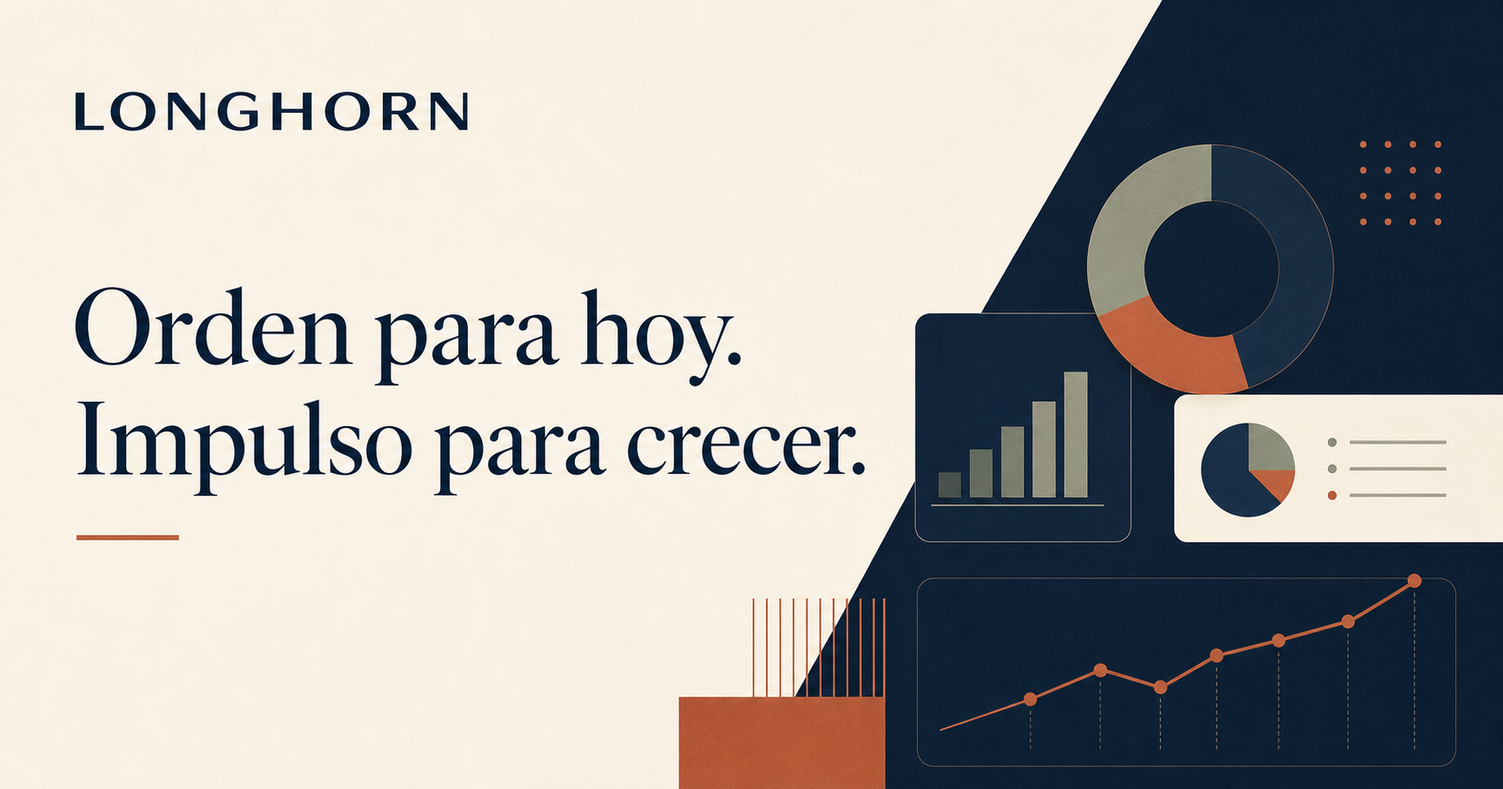
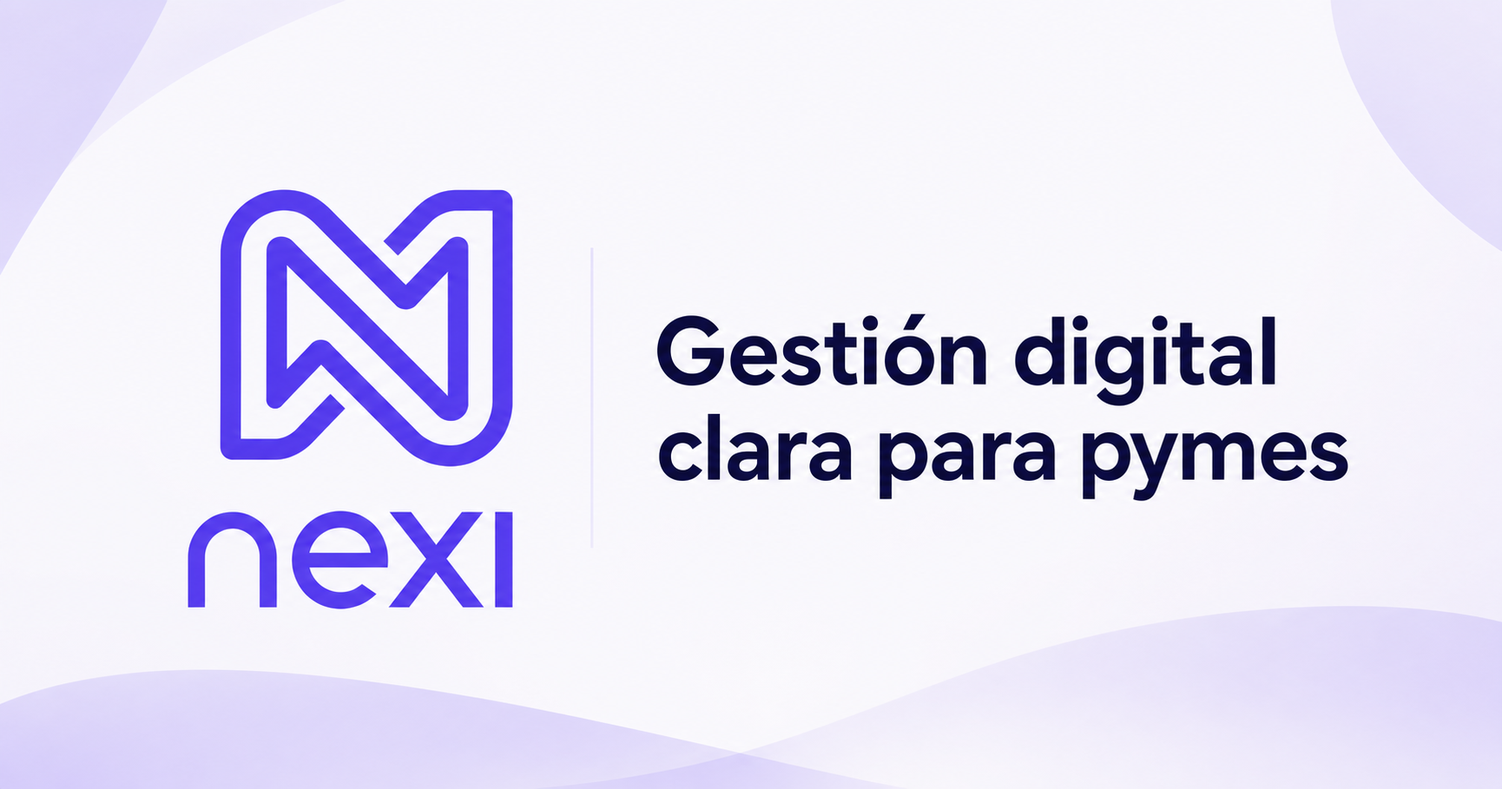
Actualizar identidad visual a nexi

diff --git a/site/app/globals.css b/site/app/globals.css
@@ -1,6 +1,6 @@
 @import "tailwindcss";
 
-:root{--ink:#171329;--muted:#6d687d;--purple:#7553c8;--purple-dark:#5739a4;--lavender:#e8dff8;--mist:#f8f6fc;--line:#e9e4f0;--white:#fff;--green:#32946f}*{box-sizing:border-box}html{scroll-behavior:smooth}body{margin:0;background:var(--mist);color:var(--ink);font-family:Inter,ui-sans-serif,system-ui,-apple-system,"Segoe UI",sans-serif}button,input,select{font:inherit}button,a{-webkit-tap-highlight-color:transparent}button{color:inherit}a{text-decoration:none;color:inherit}.brand{display:inline-flex;align-items:center;gap:10px;font-size:18px;letter-spacing:-.03em}.brand i{width:34px;height:34px;display:grid;place-items:center;background:var(--lavender);color:var(--purple-dark);border-radius:50%;font-style:normal;font-size:20px}.brand-inverse{color:#fff}.brand-inverse i{background:#ffffff18;color:#d8c8ff}.brand-button{border:0;background:transparent;padding:0;cursor:pointer}.nav-shell{height:76px;display:grid;grid-template-columns:1fr auto 1fr;align-items:center;padding:0 max(4vw,24px);background:#ffffffed;border-bottom:1px solid #f0edf4;position:sticky;top:0;z-index:20;backdrop-filter:blur(16px)}.nav-shell nav{display:flex;gap:34px;font-size:13px;font-weight:650;color:#615b6c}.nav-shell nav a:hover{color:var(--purple)}.nav-shell>.pill{justify-self:end}.pill{min-height:44px;padding:0 22px;border:0;border-radius:999px;display:inline-flex;align-items:center;justify-content:center;gap:10px;font-size:12px;font-weight:800;letter-spacing:.02em;cursor:pointer;transition:.2s ease}.pill:hover{transform:translateY(-1px)}.pill.primary{background:var(--purple);color:#fff;box-shadow:0 12px 24px #7553c82b}.pill.primary:hover{background:var(--purple-dark)}.pill.subtle{background:var(--lavender);color:var(--purple-dark)}.pill.ghost{background:#fff;border:1px solid var(--line)}.pill.light{background:#fff;color:var(--purple-dark)}.hero{padding:48px max(4vw,24px) 88px;background:#fff}.hero-card{max-width:1180px;margin:auto;border:1px solid #e9def7;border-radius:42px;overflow:hidden;position:relative;background:linear-gradient(145deg,#fcfbff,#f5effe);box-shadow:0 28px 80px #2e1b4c12}.glow{position:absolute;border-radius:50%;filter:blur(50px);pointer-events:none}.glow-one{width:330px;height:330px;background:#d8c6f4;top:-180px;left:-120px}.glow-two{width:400px;height:400px;background:#cab2ef70;right:-180px;bottom:-180px}.hero-copy{max-width:820px;margin:auto;text-align:center;padding:76px 30px 38px;position:relative;z-index:2}.tag{display:inline-flex;align-items:center;gap:8px;padding:7px 12px;border-radius:999px;background:#f1eafa;border:1px solid #dfcff3;color:var(--purple-dark);font:800 10px ui-monospace,monospace;text-transform:uppercase;letter-spacing:.09em}.tag i{width:6px;height:6px;border-radius:50%;background:var(--purple)}.hero h1{font-size:clamp(58px,9vw,112px);letter-spacing:-.075em;line-height:.85;margin:34px 0 28px;background:linear-gradient(90deg,#171329,#4c2f79 55%,#7654c9);background-clip:text;color:transparent}.hero-copy>p{max-width:680px;margin:0 auto;color:var(--muted);font-size:clamp(17px,2vw,21px);line-height:1.65}.action-row{display:flex;justify-content:center;gap:12px;margin-top:30px}.landscape-frame{margin:0 44px 44px;position:relative;z-index:2;border-radius:28px;overflow:hidden;border:6px solid #ffffffb5;box-shadow:0 22px 50px #40236c1c}.landscape-frame img{display:block;width:100%;height:390px;object-fit:cover}.section{padding:110px max(6vw,24px)}.section>*{max-width:1180px;margin-left:auto;margin-right:auto}.kicker{display:block;margin-bottom:20px;color:var(--purple);font:800 10px ui-monospace,monospace;text-transform:uppercase;letter-spacing:.15em}.section h2,.cta h2,.modal-card h2{font-size:clamp(38px,5vw,64px);line-height:1.06;letter-spacing:-.055em;margin:0}.section-lead{max-width:660px!important;text-align:center;color:var(--muted);line-height:1.7}.intro{text-align:center;background:#fff}.problem-grid{display:grid;grid-template-columns:repeat(4,1fr);gap:16px;margin-top:58px}.problem-grid article{text-align:left;background:var(--mist);padding:28px;border-radius:22px;border:1px solid var(--line);min-height:235px}.problem-icon{display:grid;width:42px;height:42px;place-items:center;border-radius:13px;background:#f0e9fa;color:var(--purple);font:700 11px ui-monospace,monospace}.problem-grid h3{font-size:16px;margin:30px 0 10px}.problem-grid p,.solution p,.process p,.faq>div>p{color:var(--muted);font-size:14px;line-height:1.7;margin:0}.solution{display:grid;grid-template-columns:1fr 1fr;gap:9vw;align-items:center}.solution>*{width:100%}.solution h2 em{color:var(--purple);font-style:normal}.solution>div:first-child>p{margin-top:28px;max-width:540px}.ecosystem-card{background:#fff;border:1px solid var(--line);border-radius:26px;padding:28px;box-shadow:0 24px 60px #3022460d}.card-title{display:flex;justify-content:space-between;align-items:center;padding-bottom:20px;border-bottom:1px solid var(--line)}.card-title span{font:700 9px ui-monospace,monospace;color:var(--purple);background:#f0eafa;padding:6px 8px;border-radius:7px}.module-row{display:grid;grid-template-columns:46px 1fr;gap:14px;padding:20px 0;border-bottom:1px solid var(--line)}.module-row:last-child{border:0}.module-row i{width:38px;height:38px;border-radius:12px;background:var(--mist);display:grid;place-items:center;color:var(--purple);font:700 11px ui-monospace,monospace}.module-row span{display:grid;gap:6px}.module-row small{color:var(--muted);line-height:1.5}.process{background:#fff;text-align:center}.process>h2{max-width:760px}.steps{display:grid;grid-template-columns:repeat(3,1fr);gap:1px;margin-top:60px;background:var(--line);border:1px solid var(--line);border-radius:24px;overflow:hidden;text-align:left}.steps article{background:#fff;padding:36px}.steps article>span{color:var(--purple);font:700 11px ui-monospace,monospace}.steps h3{font-size:22px;margin:46px 0 12px}.faq{display:grid;grid-template-columns:.75fr 1.25fr;gap:8vw}.faq>*{width:100%}.faq>div>p{margin-top:24px}.faq-list{border-top:1px solid var(--line)}.faq-list article{border-bottom:1px solid var(--line)}.faq-list button{width:100%;background:transparent;border:0;padding:24px 0;display:flex;justify-content:space-between;text-align:left;cursor:pointer}.faq-list button span{color:var(--purple);font-size:20px}.faq-list article p{margin:0;padding:0 40px 22px 0;color:var(--muted);font-size:14px;line-height:1.7}.cta{background:linear-gradient(130deg,#6b49bb,#8e6ed4);color:#fff;text-align:center;padding:100px 24px}.cta .kicker{color:#e3d8fa}.cta h2{max-width:820px;margin:0 auto 34px}footer{background:#151126;color:#fff;padding:70px max(6vw,24px) 26px;display:grid;grid-template-columns:2fr 1fr;gap:40px}footer p{max-width:390px;color:#aba5bb;font-size:13px;line-height:1.7}footer>div:nth-child(2){display:grid;align-content:start;justify-items:start;gap:12px}footer>div:nth-child(2) button{border:0;background:transparent;color:#bdb7c8;padding:0;cursor:pointer}footer small{grid-column:1/-1;border-top:1px solid #ffffff18;padding-top:24px;color:#777185}.modal-stage{position:fixed;inset:0;z-index:60;display:grid;place-items:center;padding:20px;overflow:auto}.modal-backdrop{position:fixed;inset:0;border:0;background:#161127a8;backdrop-filter:blur(12px)}.modal-card{position:relative;width:min(560px,100%);background:#fffffffa;border:1px solid #ffffff;border-radius:34px;padding:42px;box-shadow:0 30px 100px #130b25aa}.modal-card>.brand{margin-bottom:38px}.modal-card .kicker{margin-bottom:10px}.modal-card h2{font-size:34px}.close{position:absolute;right:24px;top:22px;border:0;background:var(--mist);width:34px;height:34px;border-radius:50%;font-size:20px;cursor:pointer}.modal-copy{color:var(--muted);font-size:13px;line-height:1.65}.form{display:grid;gap:18px;margin-top:26px}.form label{display:grid;gap:8px;font-size:10px;font-weight:800;text-transform:uppercase;letter-spacing:.09em;color:#625c6e}.form input,.form select{width:100%;border:1px solid var(--line);border-radius:13px;background:var(--mist);padding:13px 14px;outline:0;color:var(--ink);text-transform:none;letter-spacing:0;font-size:13px}.form input:focus,.form select:focus{border-color:var(--purple);box-shadow:0 0 0 3px #7553c817}.form .pill{width:100%;margin-top:4px}.text-button{display:block;margin:22px auto 0;border:0;background:transparent;color:var(--purple);font-size:12px;font-weight:700;cursor:pointer}.blur-overlay{position:fixed;inset:0;z-index:40;background:#17132933;backdrop-filter:blur(5px)}.progress{height:5px;background:var(--line);border-radius:4px;margin:24px 0;overflow:hidden}.progress i{display:block;height:100%;background:var(--purple);transition:.3s}.template-grid{display:grid;grid-template-columns:repeat(3,1fr);gap:10px;margin:24px 0}.template-grid button{padding:14px;border:1px solid var(--line);border-radius:16px;background:var(--mist);display:grid;gap:8px;text-align:left;cursor:pointer}.template-grid button.selected{border-color:var(--purple);background:#f3eefb}.template-grid button i{height:64px;border-radius:9px;background:linear-gradient(145deg,#e4d9f6,#c8afea);display:grid;place-items:center;font-style:normal;color:#6c4ab6}.template-grid small{color:var(--muted);font-size:9px}.review-card{background:linear-gradient(145deg,#f7f3fc,#eee5f8);border:1px solid #ded0ef;border-radius:22px;padding:30px;margin:24px 0}.review-card>span{font:700 9px ui-monospace,monospace;text-transform:uppercase;color:var(--purple)}.review-card h3{font-size:28px;margin:14px 0 8px}.review-card p{color:var(--muted);font-size:12px}.review-card div{margin-top:28px;color:var(--green);font-size:12px;font-weight:700}.review-card div i{display:inline-block;width:7px;height:7px;background:var(--green);border-radius:50%;margin-right:7px}.form-actions{display:flex;justify-content:flex-end;gap:10px;margin-top:28px}.dashboard-shell{min-height:100vh;display:grid;grid-template-columns:244px 1fr;background:#f6f4f9}.dashboard-shell>aside{background:#171329;color:#fff;padding:28px 20px;display:flex;flex-direction:column}.dashboard-shell aside nav{display:grid;gap:7px;margin-top:52px}.dashboard-shell aside nav button{border:0;background:transparent;color:#aaa4b8;border-radius:12px;padding:12px 14px;text-align:left;display:flex;gap:12px;cursor:pointer}.dashboard-shell aside nav button.active{background:#ffffff12;color:#fff}.demo-note{margin-top:auto;background:#ffffff0a;border:1px solid #ffffff12;border-radius:15px;padding:15px}.demo-note b{font-size:11px;color:#d9ccf3}.demo-note p{font-size:10px;color:#8e879c;line-height:1.5}.exit{margin-top:18px;border:0;background:transparent;color:#8e879c;text-align:left;font-size:11px;cursor:pointer}.dashboard-shell>main{padding:42px max(4vw,30px)}.dashboard-shell main>header{display:flex;align-items:center;justify-content:space-between}.dashboard-shell main header .kicker{margin-bottom:7px}.dashboard-shell main header h1{font-size:32px;margin:0;letter-spacing:-.04em}.notice{display:flex;gap:16px;align-items:center;background:#eee6fa;border:1px solid #ded0f0;border-radius:17px;padding:19px;margin-top:34px}.notice>span{width:36px;height:36px;display:grid;place-items:center;border-radius:11px;background:#fff;color:var(--purple)}.notice b{font-size:13px}.notice p{margin:5px 0 0;color:var(--muted);font-size:11px}.metrics{display:grid;grid-template-columns:repeat(3,1fr);gap:16px;margin-top:18px}.metrics article{background:#fff;border:1px solid var(--line);border-radius:18px;padding:22px;display:grid;gap:10px}.metrics small{color:var(--muted)}.metrics strong{font-size:30px}.metrics span{color:var(--green);font-size:11px}.dashboard-grid{display:grid;grid-template-columns:1.6fr 1fr;gap:18px;margin-top:18px}.chart-card,.tasks,.empty-panel{background:#fff;border:1px solid var(--line);border-radius:18px;padding:24px}.chart-card>div:first-child{display:flex;justify-content:space-between}.chart-card>div:first-child span{display:grid;gap:5px}.chart-card small,.chart-card em{font-size:10px;color:var(--muted);font-style:normal}.bars{height:230px;display:flex;gap:8%;align-items:flex-end;border-bottom:1px solid var(--line);margin-top:28px}.bars i{flex:1;background:linear-gradient(#8c6bd3,#d9ccf1);border-radius:6px 6px 0 0}.tasks h3{margin:0 0 18px;font-size:15px}.tasks label{display:flex;gap:10px;border-top:1px solid var(--line);padding:16px 0;font-size:12px}.tasks label span{display:grid;gap:5px}.tasks label small{color:var(--muted)}.empty-panel{text-align:center;margin-top:34px;min-height:430px;display:grid;place-content:center}.empty-panel>span{font-size:42px;color:var(--purple)}.empty-panel h2{font-size:28px;margin:15px}.empty-panel p{max-width:500px;color:var(--muted);line-height:1.7;font-size:13px}.design-page{min-height:100vh;background:#fff}.design-page>header{height:82px;padding:0 max(5vw,24px);display:flex;justify-content:space-between;align-items:center;border-bottom:1px solid var(--line)}.design-page>main{max-width:1120px;margin:auto;padding:90px 24px}.design-page h1{font-size:clamp(50px,7vw,88px);line-height:.95;letter-spacing:-.065em;margin:0}.design-lead{font-size:17px;color:var(--muted);line-height:1.7;max-width:670px;margin:34px 0 90px}.design-page section{border-top:1px solid var(--line);padding:40px 0 70px}.design-page section h2{font-size:16px}.swatches{display:grid;grid-template-columns:repeat(5,1fr);gap:12px}.swatches article{display:grid;gap:8px}.swatches i{height:130px;border-radius:16px;border:1px solid var(--line)}.swatches small{color:var(--muted);font:10px ui-monospace,monospace}.component-sample{display:flex;flex-wrap:wrap;gap:14px;align-items:center}.mini-card{width:180px;border:1px solid var(--line);border-radius:16px;padding:18px;display:grid;gap:6px}.mini-card small,.mini-card span{color:var(--muted);font-size:10px}.mini-card strong{font-size:28px}
+:root{--ink:#171329;--muted:#6d687d;--purple:#7553c8;--purple-dark:#5739a4;--lavender:#e8dff8;--mist:#f8f6fc;--line:#e9e4f0;--white:#fff;--green:#32946f}*{box-sizing:border-box}html{scroll-behavior:smooth}body{margin:0;background:var(--mist);color:var(--ink);font-family:Inter,ui-sans-serif,system-ui,-apple-system,"Segoe UI",sans-serif}button,input,select{font:inherit}button,a{-webkit-tap-highlight-color:transparent}button{color:inherit}a{text-decoration:none;color:inherit}.sr-only{position:absolute;width:1px;height:1px;padding:0;margin:-1px;overflow:hidden;clip:rect(0,0,0,0);white-space:nowrap;border:0}.brand{display:inline-flex;align-items:center;gap:10px}.brand b{font-family:"Century Gothic","Avenir Next",Avenir,Futura,sans-serif;font-size:24px;font-weight:400;letter-spacing:-.08em}.brand-mark{width:34px;height:34px;position:relative;display:block;overflow:hidden;background:#fff;border-radius:10px;box-shadow:0 0 0 1px #7553c817}.brand-mark img{position:absolute;width:62px;height:auto;left:-13px;top:-13px;max-width:none}.brand-inverse{color:#fff}.brand-inverse .brand-mark{background:#fff;box-shadow:none}.brand-button{border:0;background:transparent;padding:0;cursor:pointer}.nav-shell{height:76px;display:grid;grid-template-columns:1fr auto 1fr;align-items:center;padding:0 max(4vw,24px);background:#ffffffed;border-bottom:1px solid #f0edf4;position:sticky;top:0;z-index:20;backdrop-filter:blur(16px)}.nav-shell nav{display:flex;gap:34px;font-size:13px;font-weight:650;color:#615b6c}.nav-shell nav a:hover{color:var(--purple)}.nav-shell>.pill{justify-self:end}.pill{min-height:44px;padding:0 22px;border:0;border-radius:999px;display:inline-flex;align-items:center;justify-content:center;gap:10px;font-size:12px;font-weight:800;letter-spacing:.02em;cursor:pointer;transition:.2s ease}.pill:hover{transform:translateY(-1px)}.pill.primary{background:var(--purple);color:#fff;box-shadow:0 12px 24px #7553c82b}.pill.primary:hover{background:var(--purple-dark)}.pill.subtle{background:var(--lavender);color:var(--purple-dark)}.pill.ghost{background:#fff;border:1px solid var(--line)}.pill.light{background:#fff;color:var(--purple-dark)}.hero{padding:48px max(4vw,24px) 88px;background:#fff}.hero-card{max-width:1180px;margin:auto;border:1px solid #e9def7;border-radius:42px;overflow:hidden;position:relative;background:linear-gradient(145deg,#fcfbff,#f5effe);box-shadow:0 28px 80px #2e1b4c12}.glow{position:absolute;border-radius:50%;filter:blur(50px);pointer-events:none}.glow-one{width:330px;height:330px;background:#d8c6f4;top:-180px;left:-120px}.glow-two{width:400px;height:400px;background:#cab2ef70;right:-180px;bottom:-180px}.hero-copy{max-width:820px;margin:auto;text-align:center;padding:76px 30px 38px;position:relative;z-index:2}.tag{display:inline-flex;align-items:center;gap:8px;padding:7px 12px;border-radius:999px;background:#f1eafa;border:1px solid #dfcff3;color:var(--purple-dark);font:800 10px ui-monospace,monospace;text-transform:uppercase;letter-spacing:.09em}.tag i{width:6px;height:6px;border-radius:50%;background:var(--purple)}.hero h1.hero-wordmark{position:relative;width:clamp(260px,46vw,520px);aspect-ratio:3.4/1;overflow:hidden;margin:32px auto 28px;background:none;color:inherit}.hero-wordmark img{position:absolute;width:136.3%;height:auto;max-width:none;left:-17.9%;top:-405%;mix-blend-mode:multiply}.hero-copy>p{max-width:680px;margin:0 auto;color:var(--muted);font-size:clamp(17px,2vw,21px);line-height:1.65}.action-row{display:flex;justify-content:center;gap:12px;margin-top:30px}.landscape-frame{margin:0 44px 44px;position:relative;z-index:2;border-radius:28px;overflow:hidden;border:6px solid #ffffffb5;box-shadow:0 22px 50px #40236c1c}.landscape-frame img{display:block;width:100%;height:390px;object-fit:cover}.section{padding:110px max(6vw,24px)}.section>*{max-width:1180px;margin-left:auto;margin-right:auto}.kicker{display:block;margin-bottom:20px;color:var(--purple);font:800 10px ui-monospace,monospace;text-transform:uppercase;letter-spacing:.15em}.section h2,.cta h2,.modal-card h2{font-size:clamp(38px,5vw,64px);line-height:1.06;letter-spacing:-.055em;margin:0}.section-lead{max-width:660px!important;text-align:center;color:var(--muted);line-height:1.7}.intro{text-align:center;background:#fff}.problem-grid{display:grid;grid-template-columns:repeat(4,1fr);gap:16px;margin-top:58px}.problem-grid article{text-align:left;background:var(--mist);padding:28px;border-radius:22px;border:1px solid var(--line);min-height:235px}.problem-icon{display:grid;width:42px;height:42px;place-items:center;border-radius:13px;background:#f0e9fa;color:var(--purple);font:700 11px ui-monospace,monospace}.problem-grid h3{font-size:16px;margin:30px 0 10px}.problem-grid p,.solution p,.process p,.faq>div>p{color:var(--muted);font-size:14px;line-height:1.7;margin:0}.solution{display:grid;grid-template-columns:1fr 1fr;gap:9vw;align-items:center}.solution>*{width:100%}.solution h2 em{color:var(--purple);font-style:normal}.solution>div:first-child>p{margin-top:28px;max-width:540px}.ecosystem-card{background:#fff;border:1px solid var(--line);border-radius:26px;padding:28px;box-shadow:0 24px 60px #3022460d}.card-title{display:flex;justify-content:space-between;align-items:center;padding-bottom:20px;border-bottom:1px solid var(--line)}.card-title span{font:700 9px ui-monospace,monospace;color:var(--purple);background:#f0eafa;padding:6px 8px;border-radius:7px}.module-row{display:grid;grid-template-columns:46px 1fr;gap:14px;padding:20px 0;border-bottom:1px solid var(--line)}.module-row:last-child{border:0}.module-row i{width:38px;height:38px;border-radius:12px;background:var(--mist);display:grid;place-items:center;color:var(--purple);font:700 11px ui-monospace,monospace}.module-row span{display:grid;gap:6px}.module-row small{color:var(--muted);line-height:1.5}.process{background:#fff;text-align:center}.process>h2{max-width:760px}.steps{display:grid;grid-template-columns:repeat(3,1fr);gap:1px;margin-top:60px;background:var(--line);border:1px solid var(--line);border-radius:24px;overflow:hidden;text-align:left}.steps article{background:#fff;padding:36px}.steps article>span{color:var(--purple);font:700 11px ui-monospace,monospace}.steps h3{font-size:22px;margin:46px 0 12px}.faq{display:grid;grid-template-columns:.75fr 1.25fr;gap:8vw}.faq>*{width:100%}.faq>div>p{margin-top:24px}.faq-list{border-top:1px solid var(--line)}.faq-list article{border-bottom:1px solid var(--line)}.faq-list button{width:100%;background:transparent;border:0;padding:24px 0;display:flex;justify-content:space-between;text-align:left;cursor:pointer}.faq-list button span{color:var(--purple);font-size:20px}.faq-list article p{margin:0;padding:0 40px 22px 0;color:var(--muted);font-size:14px;line-height:1.7}.cta{background:linear-gradient(130deg,#6b49bb,#8e6ed4);color:#fff;text-align:center;padding:100px 24px}.cta .kicker{color:#e3d8fa}.cta h2{max-width:820px;margin:0 auto 34px}footer{background:#151126;color:#fff;padding:70px max(6vw,24px) 26px;display:grid;grid-template-columns:2fr 1fr;gap:40px}footer p{max-width:390px;color:#aba5bb;font-size:13px;line-height:1.7}footer>div:nth-child(2){display:grid;align-content:start;justify-items:start;gap:12px}footer>div:nth-child(2) button{border:0;background:transparent;color:#bdb7c8;padding:0;cursor:pointer}footer small{grid-column:1/-1;border-top:1px solid #ffffff18;padding-top:24px;color:#777185}.modal-stage{position:fixed;inset:0;z-index:60;display:grid;place-items:center;padding:20px;overflow:auto}.modal-backdrop{position:fixed;inset:0;border:0;background:#161127a8;backdrop-filter:blur(12px)}.modal-card{position:relative;width:min(560px,100%);background:#fffffffa;border:1px solid #ffffff;border-radius:34px;padding:42px;box-shadow:0 30px 100px #130b25aa}.modal-card>.brand{margin-bottom:38px}.modal-card .kicker{margin-bottom:10px}.modal-card h2{font-size:34px}.close{position:absolute;right:24px;top:22px;border:0;background:var(--mist);width:34px;height:34px;border-radius:50%;font-size:20px;cursor:pointer}.modal-copy{color:var(--muted);font-size:13px;line-height:1.65}.form{display:grid;gap:18px;margin-top:26px}.form label{display:grid;gap:8px;font-size:10px;font-weight:800;text-transform:uppercase;letter-spacing:.09em;color:#625c6e}.form input,.form select{width:100%;border:1px solid var(--line);border-radius:13px;background:var(--mist);padding:13px 14px;outline:0;color:var(--ink);text-transform:none;letter-spacing:0;font-size:13px}.form input:focus,.form select:focus{border-color:var(--purple);box-shadow:0 0 0 3px #7553c817}.form .pill{width:100%;margin-top:4px}.text-button{display:block;margin:22px auto 0;border:0;background:transparent;color:var(--purple);font-size:12px;font-weight:700;cursor:pointer}.blur-overlay{position:fixed;inset:0;z-index:40;background:#17132933;backdrop-filter:blur(5px)}.progress{height:5px;background:var(--line);border-radius:4px;margin:24px 0;overflow:hidden}.progress i{display:block;height:100%;background:var(--purple);transition:.3s}.template-grid{display:grid;grid-template-columns:repeat(3,1fr);gap:10px;margin:24px 0}.template-grid button{padding:14px;border:1px solid var(--line);border-radius:16px;background:var(--mist);display:grid;gap:8px;text-align:left;cursor:pointer}.template-grid button.selected{border-color:var(--purple);background:#f3eefb}.template-grid button i{height:64px;border-radius:9px;background:linear-gradient(145deg,#e4d9f6,#c8afea);display:grid;place-items:center;font-style:normal;color:#6c4ab6}.template-grid small{color:var(--muted);font-size:9px}.review-card{background:linear-gradient(145deg,#f7f3fc,#eee5f8);border:1px solid #ded0ef;border-radius:22px;padding:30px;margin:24px 0}.review-card>span{font:700 9px ui-monospace,monospace;text-transform:uppercase;color:var(--purple)}.review-card h3{font-size:28px;margin:14px 0 8px}.review-card p{color:var(--muted);font-size:12px}.review-card div{margin-top:28px;color:var(--green);font-size:12px;font-weight:700}.review-card div i{display:inline-block;width:7px;height:7px;background:var(--green);border-radius:50%;margin-right:7px}.form-actions{display:flex;justify-content:flex-end;gap:10px;margin-top:28px}.dashboard-shell{min-height:100vh;display:grid;grid-template-columns:244px 1fr;background:#f6f4f9}.dashboard-shell>aside{background:#171329;color:#fff;padding:28px 20px;display:flex;flex-direction:column}.dashboard-shell aside nav{display:grid;gap:7px;margin-top:52px}.dashboard-shell aside nav button{border:0;background:transparent;color:#aaa4b8;border-radius:12px;padding:12px 14px;text-align:left;display:flex;gap:12px;cursor:pointer}.dashboard-shell aside nav button.active{background:#ffffff12;color:#fff}.demo-note{margin-top:auto;background:#ffffff0a;border:1px solid #ffffff12;border-radius:15px;padding:15px}.demo-note b{font-size:11px;color:#d9ccf3}.demo-note p{font-size:10px;color:#8e879c;line-height:1.5}.exit{margin-top:18px;border:0;background:transparent;color:#8e879c;text-align:left;font-size:11px;cursor:pointer}.dashboard-shell>main{padding:42px max(4vw,30px)}.dashboard-shell main>header{display:flex;align-items:center;justify-content:space-between}.dashboard-shell main header .kicker{margin-bottom:7px}.dashboard-shell main header h1{font-size:32px;margin:0;letter-spacing:-.04em}.notice{display:flex;gap:16px;align-items:center;background:#eee6fa;border:1px solid #ded0f0;border-radius:17px;padding:19px;margin-top:34px}.notice>span{width:36px;height:36px;display:grid;place-items:center;border-radius:11px;background:#fff;color:var(--purple)}.notice b{font-size:13px}.notice p{margin:5px 0 0;color:var(--muted);font-size:11px}.metrics{display:grid;grid-template-columns:repeat(3,1fr);gap:16px;margin-top:18px}.metrics article{background:#fff;border:1px solid var(--line);border-radius:18px;padding:22px;display:grid;gap:10px}.metrics small{color:var(--muted)}.metrics strong{font-size:30px}.metrics span{color:var(--green);font-size:11px}.dashboard-grid{display:grid;grid-template-columns:1.6fr 1fr;gap:18px;margin-top:18px}.chart-card,.tasks,.empty-panel{background:#fff;border:1px solid var(--line);border-radius:18px;padding:24px}.chart-card>div:first-child{display:flex;justify-content:space-between}.chart-card>div:first-child span{display:grid;gap:5px}.chart-card small,.chart-card em{font-size:10px;color:var(--muted);font-style:normal}.bars{height:230px;display:flex;gap:8%;align-items:flex-end;border-bottom:1px solid var(--line);margin-top:28px}.bars i{flex:1;background:linear-gradient(#8c6bd3,#d9ccf1);border-radius:6px 6px 0 0}.tasks h3{margin:0 0 18px;font-size:15px}.tasks label{display:flex;gap:10px;border-top:1px solid var(--line);padding:16px 0;font-size:12px}.tasks label span{display:grid;gap:5px}.tasks label small{color:var(--muted)}.empty-panel{text-align:center;margin-top:34px;min-height:430px;display:grid;place-content:center}.empty-panel>span{font-size:42px;color:var(--purple)}.empty-panel h2{font-size:28px;margin:15px}.empty-panel p{max-width:500px;color:var(--muted);line-height:1.7;font-size:13px}.design-page{min-height:100vh;background:#fff}.design-page>header{height:82px;padding:0 max(5vw,24px);display:flex;justify-content:space-between;align-items:center;border-bottom:1px solid var(--line)}.design-page>main{max-width:1120px;margin:auto;padding:90px 24px}.design-page h1{font-size:clamp(50px,7vw,88px);line-height:.95;letter-spacing:-.065em;margin:0}.design-lead{font-size:17px;color:var(--muted);line-height:1.7;max-width:670px;margin:34px 0 90px}.design-page section{border-top:1px solid var(--line);padding:40px 0 70px}.design-page section h2{font-size:16px}.swatches{display:grid;grid-template-columns:repeat(5,1fr);gap:12px}.swatches article{display:grid;gap:8px}.swatches i{height:130px;border-radius:16px;border:1px solid var(--line)}.swatches small{color:var(--muted);font:10px ui-monospace,monospace}.component-sample{display:flex;flex-wrap:wrap;gap:14px;align-items:center}.mini-card{width:180px;border:1px solid var(--line);border-radius:16px;padding:18px;display:grid;gap:6px}.mini-card small,.mini-card span{color:var(--muted);font-size:10px}.mini-card strong{font-size:28px}
 
 /* Landing additions */
 .video-button{cursor:pointer}.video-icon{width:22px;height:22px;display:grid;place-items:center;border-radius:50%;background:var(--lavender);color:var(--purple);font-size:8px;padding-left:1px}.plans{background:#fff}.plans-heading{text-align:center}.plans-heading>p{max-width:660px;margin:24px auto 0;color:var(--muted);font-size:14px;line-height:1.7}.plan-grid{display:grid;grid-template-columns:repeat(2,minmax(0,1fr));gap:18px;margin-top:52px}.plan-grid article{padding:34px;border:1px solid var(--line);border-radius:24px;background:var(--mist);display:grid;align-content:start;gap:14px}.plan-grid article.featured{background:linear-gradient(145deg,#f2ebfb,#fff);border-color:#d8c8ed;box-shadow:0 20px 50px #4a2b7612}.plan-grid article>span,.news-grid article>span{font:700 9px ui-monospace,monospace;text-transform:uppercase;letter-spacing:.12em;color:var(--purple)}.plan-grid h3{font-size:27px;margin:8px 0 0}.plan-grid p{color:var(--muted);font-size:13px;line-height:1.7;margin:0 0 12px}.plan-grid .pill{justify-self:start}.news{display:grid;grid-template-columns:.7fr 1.3fr;gap:8vw;background:var(--mist)}.news>*{width:100%}.news-grid{display:grid;gap:12px}.news-grid article{background:#fff;border:1px solid var(--line);border-radius:20px;padding:26px}.news-grid h3{margin:12px 0 8px;font-size:19px}.news-grid p{margin:0;color:var(--muted);font-size:13px;line-height:1.65}.news-grid a{display:inline-block;margin-top:22px;font-size:12px;font-weight:750;color:var(--purple)}

diff --git a/site/app/page.tsx b/site/app/page.tsx
@@ -18,13 +18,13 @@ const modules = [
 ];
 
 const faqs = [
-  ["¿Qué es Longhorn?", "Longhorn es una propuesta SaaS B2B para ayudar a pymes a ordenar su presencia y operación digital desde una experiencia simple."],
+  ["¿Qué es nexi?", "nexi es una propuesta SaaS B2B para ayudar a pymes a ordenar su presencia y operación digital desde una experiencia simple."],
   ["¿El producto ya está disponible?", "Todavía no. Esta experiencia es un prototipo documental para validar la propuesta, el flujo y el lenguaje visual del futuro MVP."],
   ["¿Qué incluirá el MVP?", "El alcance inicial considera un solo rubro piloto y tres plantillas, con foco en una puesta en marcha clara y acompañada."],
 ];
 
 function Brand({ inverse = false }: { inverse?: boolean }) {
-  return <span className={`brand ${inverse ? "brand-inverse" : ""}`}><i aria-hidden="true">＋</i><b>Longhorn</b></span>;
+  return <span className={`brand ${inverse ? "brand-inverse" : ""}`}><i className="brand-mark" aria-hidden="true"><img src="/nexi-logo.png" alt="" /></i><b>nexi</b></span>;
 }
 
 function Landing({ go }: { go: (view: View) => void }) {
@@ -42,7 +42,7 @@ function Landing({ go }: { go: (view: View) => void }) {
           <div className="glow glow-one" /><div className="glow glow-two" />
           <div className="hero-copy">
             <span className="tag"><i /> Prototipo documental</span>
-            <h1>LONGHORN</h1>
+            <h1 className="hero-wordmark"><img src="/nexi-logo.png" alt="" /><span className="sr-only">nexi</span></h1>
             <p>Una forma clara, profesional y simple de ordenar la presencia digital y la gestión diaria de tu pyme.</p>
             <div className="action-row"><button className="pill primary" onClick={() => go("onboarding")}>Registrarme</button><button className="pill ghost video-button" onClick={() => go("video")}><span className="video-icon" aria-hidden="true">▶</span> Ver cómo funciona</button></div>
           </div>
@@ -53,13 +53,13 @@ function Landing({ go }: { go: (view: View) => void }) {
       <section className="section intro">
         <span className="kicker">La realidad de las pymes</span>
         <h2>Menos complejidad.<br />Más control para avanzar.</h2>
-        <p className="section-lead">Longhorn parte de problemas concretos: información dispersa, tareas repetidas y herramientas difíciles de mantener.</p>
+        <p className="section-lead">nexi parte de problemas concretos: información dispersa, tareas repetidas y herramientas difíciles de mantener.</p>
         <div className="problem-grid">{problems.map(([title, copy], i) => <article key={title}><span className="problem-icon">0{i + 1}</span><h3>{title}</h3><p>{copy}</p></article>)}</div>
       </section>
 
       <section className="section solution" id="solucion">
         <div><span className="kicker">Una base para el piloto</span><h2>Tu negocio cambia.<br /><em>Tu espacio también.</em></h2><p>Un ecosistema modular para reunir lo importante sin obligarte a administrar infraestructura ni aprender herramientas complejas.</p></div>
-        <div className="ecosystem-card"><div className="card-title"><b>Ecosistema Longhorn</b><span>ALCANCE MVP</span></div>{modules.map(([n, title, copy]) => <div className="module-row" key={n}><i>{n}</i><span><b>{title}</b><small>{copy}</small></span></div>)}</div>
+        <div className="ecosystem-card"><div className="card-title"><b>Ecosistema nexi</b><span>ALCANCE MVP</span></div>{modules.map(([n, title, copy]) => <div className="module-row" key={n}><i>{n}</i><span><b>{title}</b><small>{copy}</small></span></div>)}</div>
       </section>
 
       <section className="section process" id="proceso">
@@ -74,11 +74,11 @@ function Landing({ go }: { go: (view: View) => void }) {
 
       <section className="section faq" id="faq"><div><span className="kicker">Preguntas frecuentes</span><h2>Lo esencial, sin letra pequeña.</h2><p>El sitio representa una visión de producto; no una plataforma operativa ni una oferta comercial activa.</p></div><div className="faq-list">{faqs.map(([q,a], i) => <article key={q}><button aria-expanded={openFaq === i} onClick={() => setOpenFaq(openFaq === i ? null : i)}><b>{q}</b><span>{openFaq === i ? "−" : "+"}</span></button>{openFaq === i && <p>{a}</p>}</article>)}</div></section>
 
-      <section className="section news" id="noticias"><div><span className="kicker">Noticias Longhorn</span><h2>Avances del proyecto.</h2></div><div className="news-grid"><article><span>Diseño · Julio 2026</span><h3>Nueva experiencia visual en validación</h3><p>Estamos probando una interfaz más simple, intuitiva y consistente para el rubro piloto.</p><a href="#inicio">Leer actualización <b>→</b></a></article><article><span>Producto · Próximamente</span><h3>Definición de las tres plantillas iniciales</h3><p>El siguiente hito documental establecerá el contenido y alcance de cada alternativa.</p><a href="#planes">Conocer los planes <b>→</b></a></article></div></section>
+      <section className="section news" id="noticias"><div><span className="kicker">Noticias nexi</span><h2>Avances del proyecto.</h2></div><div className="news-grid"><article><span>Diseño · Julio 2026</span><h3>Nueva experiencia visual en validación</h3><p>Estamos probando una interfaz más simple, intuitiva y consistente para el rubro piloto.</p><a href="#inicio">Leer actualización <b>→</b></a></article><article><span>Producto · Próximamente</span><h3>Definición de las tres plantillas iniciales</h3><p>El siguiente hito documental establecerá el contenido y alcance de cada alternativa.</p><a href="#planes">Conocer los planes <b>→</b></a></article></div></section>
 
-      <section className="cta"><span className="kicker">Construyamos claridad</span><h2>Conoce cómo podría verse Longhorn en tu pyme.</h2><button className="pill light" onClick={() => go("onboarding")}>Ver experiencia demo <span>→</span></button></section>
+      <section className="cta"><span className="kicker">Construyamos claridad</span><h2>Conoce cómo podría verse nexi en tu pyme.</h2><button className="pill light" onClick={() => go("onboarding")}>Ver experiencia demo <span>→</span></button></section>
     </main>
-    <footer><div><Brand inverse /><p>Gestión digital simple para pymes que quieren crecer con control.</p></div><div><b>Prototipo</b><button onClick={() => go("dashboard")}>Panel demostrativo</button><button onClick={() => go("design")}>Guía visual</button></div><small>© 2026 Longhorn · Etapa de preparación documental</small></footer>
+    <footer><div><Brand inverse /><p>Gestión digital simple para pymes que quieren crecer con control.</p></div><div><b>Prototipo</b><button onClick={() => go("dashboard")}>Panel demostrativo</button><button onClick={() => go("design")}>Guía visual</button></div><small>© 2026 nexi · Etapa de preparación documental</small></footer>
   </div>;
 }
 
@@ -88,7 +88,7 @@ function ModalShell({ title, eyebrow, close, children, wide = false }: { title: 
 
 function Login({ go }: { go: (view: View) => void }) {
   const submit = (e: FormEvent) => { e.preventDefault(); go("dashboard"); };
-  return <><Landing go={go} /><ModalShell eyebrow="Acceso de demostración" title="Bienvenido a Longhorn" close={() => go("landing")}><p className="modal-copy">Usa cualquier correo y contraseña para recorrer este prototipo. No se envían ni almacenan datos.</p><form onSubmit={submit} className="form"><label>Correo<input required type="email" defaultValue="demo@longhorn.cl" /></label><label>Contraseña<input required type="password" defaultValue="demolonghorn" /></label><button className="pill primary" type="submit">Ingresar al panel <span>→</span></button></form><button className="text-button" onClick={() => go("onboarding")}>¿Primera vez? Explora el onboarding</button></ModalShell></>;
+  return <><Landing go={go} /><ModalShell eyebrow="Acceso de demostración" title="Bienvenido a nexi" close={() => go("landing")}><p className="modal-copy">Usa cualquier correo y contraseña para recorrer este prototipo. No se envían ni almacenan datos.</p><form onSubmit={submit} className="form"><label>Correo<input required type="email" defaultValue="demo@nexi.cl" /></label><label>Contraseña<input required type="password" defaultValue="demonexi" /></label><button className="pill primary" type="submit">Ingresar al panel <span>→</span></button></form><button className="text-button" onClick={() => go("onboarding")}>¿Primera vez? Explora el onboarding</button></ModalShell></>;
 }
 
 function Onboarding({ go }: { go: (view: View) => void }) {
@@ -104,9 +104,9 @@ function Onboarding({ go }: { go: (view: View) => void }) {
 }
 
 function VideoDemo({ go }: { go: (view: View) => void }) {
-  return <ModalShell eyebrow="Video demostrativo" title="Así funciona Longhorn" close={() => go("landing")} wide>
+  return <ModalShell eyebrow="Video demostrativo" title="Así funciona nexi" close={() => go("landing")} wide>
     <p className="modal-copy">Esta animación provisional representa el futuro video. Cuando el material final esté listo, lo reemplazaremos en este mismo espacio.</p>
-    <div className="video-placeholder" role="img" aria-label="Animación provisional del proceso de Longhorn">
+    <div className="video-placeholder" role="img" aria-label="Animación provisional del proceso de nexi">
       <div className="video-screen"><span className="video-play">▶</span><div className="demo-scene scene-one"><i>1</i><span><b>Registra tu negocio</b><small>Cuéntanos lo esencial en pocos pasos.</small></span></div><div className="demo-scene scene-two"><i>2</i><span><b>Elige tu plantilla</b><small>Parte desde una base diseñada para el piloto.</small></span></div><div className="demo-scene scene-three"><i>3</i><span><b>Publica y administra</b><small>Gestiona todo desde un panel claro.</small></span></div></div>
       <div className="video-progress"><i /></div>
     </div>
@@ -121,8 +121,8 @@ function Dashboard({ go }: { go: (view: View) => void }) {
 
 function SitesPanel() {
   const [message, setMessage] = useState("Selecciona un sitio para comenzar.");
-  const sites = [{ name: "Café La Toscana", domain: "cafelatoscana.longhorn.site", status: "Publicado", progress: "82% completo" }, { name: "Toscana Eventos", domain: "Sin dominio registrado", status: "Borrador", progress: "45% completo" }];
-  return <><div className="notice"><span>✦</span><div><b>Hola, Carlos</b><p>{message} Todas las acciones son demostrativas.</p></div></div><section className="sites-panel"><div className="sites-toolbar"><div><h2>Tus sitios</h2><p>Administra tus experiencias desde un solo lugar.</p></div><button className="pill primary" onClick={() => setMessage("El registro de nuevos sitios estará disponible cuando se apruebe el MVP.")}>＋ Nuevo sitio</button></div><div className="site-list">{sites.map((site, i) => <article key={site.name}><div className="site-preview"><span>LH</span></div><div className="site-info"><span className={`site-status ${i ? "draft" : ""}`}><i /> {site.status}</span><h3>{site.name}</h3><p>{site.domain}</p><small>{site.progress}</small></div><div className="site-actions"><button className="pill subtle" onClick={() => setMessage(`Abriendo el editor demostrativo de ${site.name}.`)}>Editar sitio</button><button className="pill ghost" onClick={() => setMessage(`Registro de dominio seleccionado para ${site.name}.`)}>Registrar mi dominio</button><button className="danger-button" onClick={() => setMessage(`La eliminación de ${site.name} requiere confirmación y backend; no se realizó ningún cambio.`)}>Eliminar sitio</button></div></article>)}</div></section></>;
+  const sites = [{ name: "Café La Toscana", domain: "cafelatoscana.nexi.site", status: "Publicado", progress: "82% completo" }, { name: "Toscana Eventos", domain: "Sin dominio registrado", status: "Borrador", progress: "45% completo" }];
+  return <><div className="notice"><span>✦</span><div><b>Hola, Carlos</b><p>{message} Todas las acciones son demostrativas.</p></div></div><section className="sites-panel"><div className="sites-toolbar"><div><h2>Tus sitios</h2><p>Administra tus experiencias desde un solo lugar.</p></div><button className="pill primary" onClick={() => setMessage("El registro de nuevos sitios estará disponible cuando se apruebe el MVP.")}>＋ Nuevo sitio</button></div><div className="site-list">{sites.map((site, i) => <article key={site.name}><div className="site-preview"><Brand /></div><div className="site-info"><span className={`site-status ${i ? "draft" : ""}`}><i /> {site.status}</span><h3>{site.name}</h3><p>{site.domain}</p><small>{site.progress}</small></div><div className="site-actions"><button className="pill subtle" onClick={() => setMessage(`Abriendo el editor demostrativo de ${site.name}.`)}>Editar sitio</button><button className="pill ghost" onClick={() => setMessage(`Registro de dominio seleccionado para ${site.name}.`)}>Registrar mi dominio</button><button className="danger-button" onClick={() => setMessage(`La eliminación de ${site.name} requiere confirmación y backend; no se realizó ningún cambio.`)}>Eliminar sitio</button></div></article>)}</div></section></>;
 }
 
 function EmptyPanel({ title }: { title: string }) { return <section className="empty-panel"><span>◇</span><h2>{title}</h2><p>Esta sección es una representación visual. Su funcionalidad se definirá y aprobará durante la documentación del MVP.</p></section>; }

diff --git a/site/app/layout.tsx b/site/app/layout.tsx
@@ -9,17 +9,17 @@ export async function generateMetadata(): Promise<Metadata> {
   const socialImage = `${protocol}://${host}/og.png`;
 
   return {
-    title: "Longhorn | Gestión digital clara para pymes",
-    description: "Prototipo de Longhorn: una experiencia simple para ordenar la presencia y gestión digital de tu pyme.",
+    title: "nexi | Gestión digital clara para pymes",
+    description: "Prototipo de nexi: una experiencia simple para ordenar la presencia y gestión digital de tu pyme.",
     openGraph: {
-      title: "Longhorn | Menos complejidad, más control",
+      title: "nexi | Menos complejidad, más control",
       description: "Prototipo documental de una experiencia digital clara para pymes.",
       type: "website",
-      images: [{ url: socialImage, width: 1200, height: 630, alt: "Longhorn, gestión digital clara para pymes" }],
+      images: [{ url: socialImage, width: 1200, height: 630, alt: "nexi, gestión digital clara para pymes" }],
     },
     twitter: {
       card: "summary_large_image",
-      title: "Longhorn | Menos complejidad, más control",
+      title: "nexi | Menos complejidad, más control",
       description: "Prototipo documental de una experiencia digital clara para pymes.",
       images: [socialImage],
     },
